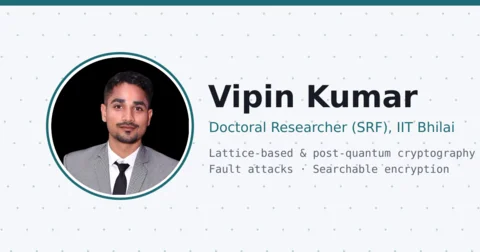
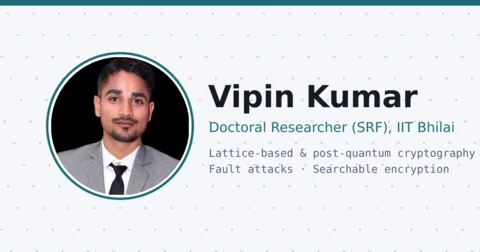
Deploying to gh-pages from @ vpncvam/vpncvam.github.io@b3d967affb0501a2976ce09235485646a948b844 🚀

diff --git a/index.html b/index.html
@@ -21,20 +21,20 @@
   }
 </style> <link rel="stylesheet" href="/assets/css/tailwind.css?v=50c64c15cbb9fd1ce6056fdb8bcb4b62"> <link defer rel="stylesheet" href="https://cdn.jsdelivr.net/npm/@fortawesome/fontawesome-free@7.2.0/css/all.min.css" integrity="sha256-MVopmdyC2tYTiJ8wlktf0uh0v4NgT+vNdyVFepi7Q0c=" crossorigin="anonymous"> <link defer rel="stylesheet" href="https://cdn.jsdelivr.net/npm/academicons@1.9.5/css/academicons.min.css" integrity="sha256-SzrCOBJbGVFMahewkgjwnApaV2+av1DwMAA+/QGLyZw=" crossorigin="anonymous"> <link defer rel="stylesheet" href="https://cdn.jsdelivr.net/npm/scholar-icons@1.0.3/css/scholar-icons.css" integrity="sha256-VY3hHVj/hNX3fYG6wtbA6TcKJQl7+FthzGSyIB64klY=" crossorigin="anonymous"> <link defer rel="stylesheet" type="text/css" href="https://fonts.googleapis.com/css?family=Roboto:300,400,500,700|Roboto+Slab:100,300,400,500,700|Material+Icons&amp;display=swap"> <link defer rel="stylesheet" href="/assets/css/jekyll-pygments-themes-github.css?v=591dab5a4e56573bf4ef7fd332894c99" media="" id="highlight_theme_light"> <link rel="shortcut icon" href="/assets/img/favicon.svg?v=43e9ee5e2d94ac5872cd87679f8a1920"> <link rel="apple-touch-icon" href="/assets/img/apple-touch-icon.png?v=e3a0c7738240fa59e361512c744bec3d"> <link rel="stylesheet" href="/assets/css/main.css?v=3116ba77db9ee1581d05bb3e86fbf7f1"> <link rel="canonical" href="https://vpncvam.github.io/"> <script src="/assets/js/theme.js?v=5286c3e4c334d0ecb8fc0c40ff4fa7ec"></script> <link defer rel="stylesheet" href="/assets/css/jekyll-pygments-themes-native.css?v=5847e5ed4a4568527aa6cfab446049ca" media="none" id="highlight_theme_dark"> <script>
     initTheme();
-  </script> <link rel="preconnect" href="https://fonts.googleapis.com"> <link rel="preconnect" href="https://fonts.gstatic.com" crossorigin> <link rel="stylesheet" href="https://fonts.googleapis.com/css2?family=Inter:wght@400;500;600&amp;family=Space+Grotesk:wght@500;600;700&amp;family=JetBrains+Mono:wght@400;500;600&amp;display=swap"> <link rel="stylesheet" href="/assets/css/home.css?v=178ef7fe4946c57d33566d6002bdeb01"> <script type="application/ld+json">
+  </script> <link rel="preconnect" href="https://fonts.googleapis.com"> <link rel="preconnect" href="https://fonts.gstatic.com" crossorigin> <link rel="stylesheet" href="https://fonts.googleapis.com/css2?family=Inter:wght@400;500;600&amp;family=Space+Grotesk:wght@500;600;700&amp;family=JetBrains+Mono:wght@400;500;600&amp;display=swap"> <link rel="stylesheet" href="/assets/css/home.css?v=dfdb8ac4aaa52ed42678d14889b8de76"> <script type="application/ld+json">
       {
         "@context": "https://schema.org",
         "@type": "Person",
         "name": "Vipin Kumar",
         "url": "https://vpncvam.github.io/",
-        "image": "https://vpncvam.github.io/assets/img/prof_pic.jpg",
+        "image": "https://vpncvam.github.io/assets/img/PS1.png",
         "jobTitle": "Doctoral Researcher (Senior Research Fellow) in Cryptography",
         "affiliation": { "@type": "CollegeOrUniversity", "name": "Indian Institute of Technology Bhilai", "url": "https://www.iitbhilai.ac.in" },
         "alumniOf": { "@type": "CollegeOrUniversity", "name": "Motilal Nehru National Institute of Technology Allahabad" },
         "knowsAbout": ["Cryptography","Lattice-based cryptography","Post-quantum cryptography","Fault-injection attacks","ML-KEM","Searchable symmetric encryption"],
         "sameAs": ["https://scholar.google.com/citations?user=GHsX49gAAAAJ","https://github.com/vpncvam","https://www.linkedin.com/in/vpncvam"]
       }
-    </script> </head> <body class="vk-home"> <div class="vk-lattice-bg" aria-hidden="true"></div> <svg class="vk-basis" viewbox="0 0 150 120" aria-hidden="true"> <defs> <marker id="vk-arr" viewbox="0 0 10 10" refx="9" refy="5" markerwidth="6" markerheight="6" orient="auto"> <path d="M0 0L10 5L0 10z" fill="currentColor"></path> </marker> </defs> <path d="M20 100 L104 100 L132 30 L48 30 Z" fill="currentColor" fill-opacity=".08" stroke="currentColor" stroke-opacity=".35" stroke-dasharray="3 3"></path> <path d="M20 100 L102 100" stroke="currentColor" stroke-width="1.8" marker-end="url(#vk-arr)" fill="none"></path> <path d="M20 100 L47 32" stroke="currentColor" stroke-width="1.8" marker-end="url(#vk-arr)" fill="none"></path> <circle cx="20" cy="100" r="3" fill="currentColor"></circle> <text x="62" y="116">b₁</text><text x="16" y="62">b₂</text> <text x="70" y="70" font-size="10">𝓛(B)</text> </svg> <nav class="vk-nav" aria-label="Main"> <div class="vk-nav-inner"> <a class="vk-brand" href="#about">Vipin <span>Kumar</span></a> <div class="vk-nav-links"> <a href="#about">About</a> <a href="#publications">Publications</a> <a href="#patents">Patents</a> <a href="#projects">Projects</a> <a href="#teaching">Teaching</a> <a href="#awards">Awards</a> </div> <button id="light-toggle" class="vk-theme-btn" type="button" title="Change theme" aria-label="Change color theme (system, light, dark)"> <svg class="vk-ico-system" viewbox="0 0 24 24" fill="none" stroke="currentColor" stroke-width="2" aria-hidden="true"> <circle cx="12" cy="12" r="8"></circle><path d="M12 4a8 8 0 0 1 0 16z" fill="currentColor"></path> </svg> <svg class="vk-ico-light" viewbox="0 0 24 24" fill="none" stroke="currentColor" stroke-width="2" stroke-linecap="round" aria-hidden="true"> <circle cx="12" cy="12" r="4"></circle> <path d="M12 2v2M12 20v2M4.9 4.9l1.4 1.4M17.7 17.7l1.4 1.4M2 12h2M20 12h2M4.9 19.1l1.4-1.4M17.7 6.3l1.4-1.4"></path> </svg> <svg class="vk-ico-dark" viewbox="0 0 24 24" fill="currentColor" aria-hidden="true"> <path d="M20 14.5A8 8 0 0 1 9.5 4a8 8 0 1 0 10.5 10.5z"></path> </svg> Theme </button> </div> </nav> <div class="vk-wrap"> <div class="vk-container"> <section class="vk-hero vk-section" id="about" aria-label="Introduction"> <canvas id="vk-lattice" aria-hidden="true"></canvas> <div class="vk-hero-inner"> <div class="vk-side"> <div class="vk-portrait"> <img src="/assets/img/prof_pic.jpg?v=192022302f12a29330991422817921d7" alt="Portrait of Vipin Kumar" width="240" height="240" loading="eager"> </div> <div class="vk-icon-links"> <a class="vk-icon-btn" href="https://scholar.google.com/citations?user=GHsX49gAAAAJ&amp;hl=en" target="_blank" rel="noopener" aria-label="Google Scholar" data-tip="Google Scholar"> <svg viewbox="0 0 24 24" fill="currentColor" aria-hidden="true"> <path d="M12 3 1 9l11 6 9-4.9V17h2V9z"></path><circle cx="12" cy="17" r="4"></circle> </svg> </a><a class="vk-icon-btn" href="https://github.com/vpncvam" target="_blank" rel="noopener" aria-label="GitHub" data-tip="GitHub"> <svg viewbox="0 0 24 24" fill="currentColor" aria-hidden="true"> <path d="M12 2a10 10 0 0 0-3.2 19.5c.5.1.7-.2.7-.5v-1.7c-2.8.6-3.4-1.3-3.4-1.3-.4-1.1-1.1-1.4-1.1-1.4-.9-.6.1-.6.1-.6 1 .1 1.5 1 1.5 1 .9 1.5 2.3 1.1 2.9.8.1-.6.3-1.1.6-1.3-2.2-.3-4.6-1.1-4.6-5 0-1.1.4-2 1-2.7-.1-.3-.4-1.3.1-2.7 0 0 .8-.3 2.8 1a9.6 9.6 0 0 1 5 0c1.9-1.3 2.8-1 2.8-1 .5 1.4.2 2.4.1 2.7.6.7 1 1.6 1 2.7 0 3.9-2.4 4.7-4.6 5 .4.3.7.9.7 1.9V21c0 .3.2.6.7.5A10 10 0 0 0 12 2z"></path> </svg> </a><a class="vk-icon-btn" href="https://www.linkedin.com/in/vpncvam" target="_blank" rel="noopener" aria-label="LinkedIn" data-tip="LinkedIn"> <svg viewbox="0 0 24 24" fill="currentColor" aria-hidden="true"> <path d="M4 3a2 2 0 1 1 0 4 2 2 0 0 1 0-4zM2 9h4v12H2zM9 9h3.8v1.7h.1c.5-1 1.8-2 3.8-2 4 0 4.8 2.6 4.8 6.1V21h-4v-5.5c0-1.3 0-3-1.8-3s-2.1 1.4-2.1 2.9V21H9z"></path> </svg> </a> </div> </div> <div> <h1> Vipin Kumar </h1> <p class="vk-role"><strong>Doctoral Researcher (SRF)</strong>, Dept. of CSE, IIT Bhilai<br>de.ci.phe.red Lab · advised by <a href="https://dhimans.in" target="_blank" rel="noopener">Dr. Dhiman Saha</a></p> <p class="vk-tagline"> <span id="vk-typed" data-phrases='["Lattice-based cryptography","Post-quantum security","Searchable encryption","Fault attacks on PQC hardware"]'>Lattice-based cryptography</span><span class="vk-caret" aria-hidden="true"></span> </p> <ul class="vk-chips" aria-label="Research interests"> <li class="vk-chip">Lattice-based cryptography</li> <li class="vk-chip">Post-quantum</li> <li class="vk-chip">Searchable encryption</li> <li class="vk-chip">5G security</li> <li class="vk-chip">Fault attacks</li> </ul> </div> </div> <div class="vk-hero-hint">move the cursor: Babai rounding to the nearest lattice point</div> </section> <main class="vk-main"> <div class="vk-col"> <section class="vk-section" aria-labelledby="vk-h-bio"> <h2 id="vk-h-bio">About</h2> <div class="vk-prose"> <p>I am a PhD scholar in the Department of Computer Science and Engineering at <a href="https://www.iitbhilai.ac.in" rel="external nofollow noopener" target="_blank">IIT Bhilai</a>, where I work on the application of lattices in cryptology. My research is being carried out under the guidance of my incredible supervisor, <a href="https://dhimans.in" rel="external nofollow noopener" target="_blank">Dr. Dhiman Saha</a>, Associate Professor in the department. Presently, my work focuses on fault-injection attacks on lattice-based cryptographic primitives. I am also working on searchable symmetric encryption schemes that support range queries. I come from a mathematics background, having completed my M.Sc. in Mathematics and Scientific Computing at MNNIT Allahabad in 2018.</p> </div> </section> <section class="vk-section vk-pubs" id="publications" aria-labelledby="vk-h-pubs"> <h2 id="vk-h-pubs">Publications</h2> <ol class="bibliography"> <li> <div class="vk-pub"> <div class="vk-venue">EPRINT<br>2026</div> <div> <p class="vk-pub-title">Keyber: Recovering the Signal by Amplifying the Noise in ML-KEM</p> <p class="vk-pub-authors"><b>Vipin Kumar</b>, Prathamesh Ram, Suparna Kundu, Dhiman Saha</p> <p class="vk-pub-meta">Cryptology ePrint Archive, Paper 2026/2766 · Preprint</p> <div class="vk-badges"> <a class="vk-badge" href="https://eprint.iacr.org/2026/2766" target="_blank" rel="noopener">ePrint</a><a class="vk-badge" href="https://eprint.iacr.org/2026/2766.pdf" target="_blank" rel="noopener">PDF</a><button class="vk-badge" type="button" data-vk-bib="vk-bib-cryptoeprint-2026-2766" aria-expanded="false" aria-controls="vk-bib-cryptoeprint-2026-2766">BibTeX</button> </div> <pre class="vk-bib" id="vk-bib-cryptoeprint-2026-2766">@misc{cryptoeprint:2026/2766,
+    </script> </head> <body class="vk-home"> <div class="vk-lattice-bg" aria-hidden="true"></div> <svg class="vk-basis" viewbox="0 0 150 120" aria-hidden="true"> <defs> <marker id="vk-arr" viewbox="0 0 10 10" refx="9" refy="5" markerwidth="6" markerheight="6" orient="auto"> <path d="M0 0L10 5L0 10z" fill="currentColor"></path> </marker> </defs> <path d="M20 100 L104 100 L132 30 L48 30 Z" fill="currentColor" fill-opacity=".08" stroke="currentColor" stroke-opacity=".35" stroke-dasharray="3 3"></path> <path d="M20 100 L102 100" stroke="currentColor" stroke-width="1.8" marker-end="url(#vk-arr)" fill="none"></path> <path d="M20 100 L47 32" stroke="currentColor" stroke-width="1.8" marker-end="url(#vk-arr)" fill="none"></path> <circle cx="20" cy="100" r="3" fill="currentColor"></circle> <text x="62" y="116">b₁</text><text x="16" y="62">b₂</text> <text x="70" y="70" font-size="10">𝓛(B)</text> </svg> <nav class="vk-nav" aria-label="Main"> <div class="vk-nav-inner"> <a class="vk-brand" href="#about">Vipin <span>Kumar</span></a> <div class="vk-nav-links"> <a href="#about">About</a> <a href="#publications">Publications</a> <a href="#patents">Patents</a> <a href="#projects">Projects</a> <a href="#teaching">Teaching</a> <a href="#awards">Awards</a> </div> <button id="light-toggle" class="vk-theme-btn" type="button" title="Change theme" aria-label="Change color theme (system, light, dark)"> <svg class="vk-ico-system" viewbox="0 0 24 24" fill="none" stroke="currentColor" stroke-width="2" aria-hidden="true"> <circle cx="12" cy="12" r="8"></circle><path d="M12 4a8 8 0 0 1 0 16z" fill="currentColor"></path> </svg> <svg class="vk-ico-light" viewbox="0 0 24 24" fill="none" stroke="currentColor" stroke-width="2" stroke-linecap="round" aria-hidden="true"> <circle cx="12" cy="12" r="4"></circle> <path d="M12 2v2M12 20v2M4.9 4.9l1.4 1.4M17.7 17.7l1.4 1.4M2 12h2M20 12h2M4.9 19.1l1.4-1.4M17.7 6.3l1.4-1.4"></path> </svg> <svg class="vk-ico-dark" viewbox="0 0 24 24" fill="currentColor" aria-hidden="true"> <path d="M20 14.5A8 8 0 0 1 9.5 4a8 8 0 1 0 10.5 10.5z"></path> </svg> Theme </button> </div> </nav> <div class="vk-wrap"> <div class="vk-container"> <section class="vk-hero vk-section" id="about" aria-label="Introduction"> <canvas id="vk-lattice" aria-hidden="true"></canvas> <div class="vk-hero-inner"> <div class="vk-side"> <div class="vk-portrait"> <img src="/assets/img/PS1.png?v=3c16f9b8e84f4b390e7c1cd8f8d2b89d" alt="Portrait of Vipin Kumar" width="240" height="240" loading="eager"> </div> <div class="vk-icon-links"> <a class="vk-icon-btn" href="https://scholar.google.com/citations?user=GHsX49gAAAAJ&amp;hl=en" target="_blank" rel="noopener" aria-label="Google Scholar" data-tip="Google Scholar"> <svg viewbox="0 0 24 24" fill="currentColor" aria-hidden="true"> <path d="M12 3 1 9l11 6 9-4.9V17h2V9z"></path><circle cx="12" cy="17" r="4"></circle> </svg> </a><a class="vk-icon-btn" href="https://github.com/vpncvam" target="_blank" rel="noopener" aria-label="GitHub" data-tip="GitHub"> <svg viewbox="0 0 24 24" fill="currentColor" aria-hidden="true"> <path d="M12 2a10 10 0 0 0-3.2 19.5c.5.1.7-.2.7-.5v-1.7c-2.8.6-3.4-1.3-3.4-1.3-.4-1.1-1.1-1.4-1.1-1.4-.9-.6.1-.6.1-.6 1 .1 1.5 1 1.5 1 .9 1.5 2.3 1.1 2.9.8.1-.6.3-1.1.6-1.3-2.2-.3-4.6-1.1-4.6-5 0-1.1.4-2 1-2.7-.1-.3-.4-1.3.1-2.7 0 0 .8-.3 2.8 1a9.6 9.6 0 0 1 5 0c1.9-1.3 2.8-1 2.8-1 .5 1.4.2 2.4.1 2.7.6.7 1 1.6 1 2.7 0 3.9-2.4 4.7-4.6 5 .4.3.7.9.7 1.9V21c0 .3.2.6.7.5A10 10 0 0 0 12 2z"></path> </svg> </a><a class="vk-icon-btn" href="https://www.linkedin.com/in/vpncvam" target="_blank" rel="noopener" aria-label="LinkedIn" data-tip="LinkedIn"> <svg viewbox="0 0 24 24" fill="currentColor" aria-hidden="true"> <path d="M4 3a2 2 0 1 1 0 4 2 2 0 0 1 0-4zM2 9h4v12H2zM9 9h3.8v1.7h.1c.5-1 1.8-2 3.8-2 4 0 4.8 2.6 4.8 6.1V21h-4v-5.5c0-1.3 0-3-1.8-3s-2.1 1.4-2.1 2.9V21H9z"></path> </svg> </a> </div> </div> <div> <h1> Vipin Kumar </h1> <p class="vk-role"><strong>Doctoral Researcher (SRF)</strong>, Dept. of CSE, IIT Bhilai<br>de.ci.phe.red Lab · advised by <a href="https://dhimans.in" target="_blank" rel="noopener">Dr. Dhiman Saha</a></p> <p class="vk-tagline"> <span id="vk-typed" data-phrases='["Lattice-based cryptography","Post-quantum security","Searchable encryption","Fault attacks on PQC hardware"]'>Lattice-based cryptography</span><span class="vk-caret" aria-hidden="true"></span> </p> <ul class="vk-chips" aria-label="Research interests"> <li class="vk-chip">Lattice-based cryptography</li> <li class="vk-chip">Post-quantum</li> <li class="vk-chip">Searchable encryption</li> <li class="vk-chip">5G security</li> <li class="vk-chip">Fault attacks</li> </ul> </div> </div> <div class="vk-hero-hint">move the cursor: Babai rounding to the nearest lattice point</div> </section> <main class="vk-main"> <div class="vk-col"> <section class="vk-section" aria-labelledby="vk-h-bio"> <h2 id="vk-h-bio">About</h2> <div class="vk-prose"> <p>I am a PhD scholar in the Department of Computer Science and Engineering at <a href="https://www.iitbhilai.ac.in" rel="external nofollow noopener" target="_blank">IIT Bhilai</a>, where I work on the application of lattices in cryptology. My research is being carried out under the guidance of my incredible supervisor, <a href="https://dhimans.in" rel="external nofollow noopener" target="_blank">Dr. Dhiman Saha</a>, Associate Professor in the department. Presently, my work focuses on fault-injection attacks on lattice-based cryptographic primitives. I am also working on searchable symmetric encryption schemes that support range queries. I come from a mathematics background, having completed my M.Sc. in Mathematics and Scientific Computing at MNNIT Allahabad in 2018.</p> </div> </section> <section class="vk-section vk-pubs" id="publications" aria-labelledby="vk-h-pubs"> <h2 id="vk-h-pubs">Publications</h2> <ol class="bibliography"> <li> <div class="vk-pub"> <div class="vk-venue">EPRINT<br>2026</div> <div> <p class="vk-pub-title">Keyber: Recovering the Signal by Amplifying the Noise in ML-KEM</p> <p class="vk-pub-authors"><b>Vipin Kumar</b>, Prathamesh Ram, Suparna Kundu, Dhiman Saha</p> <p class="vk-pub-meta">Cryptology ePrint Archive, Paper 2026/2766 · Preprint</p> <div class="vk-badges"> <a class="vk-badge" href="https://eprint.iacr.org/2026/2766" target="_blank" rel="noopener">ePrint</a><a class="vk-badge" href="https://eprint.iacr.org/2026/2766.pdf" target="_blank" rel="noopener">PDF</a><button class="vk-badge" type="button" data-vk-bib="vk-bib-cryptoeprint-2026-2766" aria-expanded="false" aria-controls="vk-bib-cryptoeprint-2026-2766">BibTeX</button> </div> <pre class="vk-bib" id="vk-bib-cryptoeprint-2026-2766">@misc{cryptoeprint:2026/2766,
   author = {Kumar, Vipin and Ram, Prathamesh and Kundu, Suparna and Saha, Dhiman},
   title = {Keyber: Recovering the Signal by Amplifying the Noise in {ML}-{KEM}},
   howpublished = {Cryptology {ePrint} Archive, Paper 2026/2766},

diff --git a/404.html b/404.html
@@ -21,7 +21,7 @@
   }
 </style> <link rel="stylesheet" href="/assets/css/tailwind.css?v=50c64c15cbb9fd1ce6056fdb8bcb4b62"> <link defer rel="stylesheet" href="https://cdn.jsdelivr.net/npm/@fortawesome/fontawesome-free@7.2.0/css/all.min.css" integrity="sha256-MVopmdyC2tYTiJ8wlktf0uh0v4NgT+vNdyVFepi7Q0c=" crossorigin="anonymous"> <link defer rel="stylesheet" href="https://cdn.jsdelivr.net/npm/academicons@1.9.5/css/academicons.min.css" integrity="sha256-SzrCOBJbGVFMahewkgjwnApaV2+av1DwMAA+/QGLyZw=" crossorigin="anonymous"> <link defer rel="stylesheet" href="https://cdn.jsdelivr.net/npm/scholar-icons@1.0.3/css/scholar-icons.css" integrity="sha256-VY3hHVj/hNX3fYG6wtbA6TcKJQl7+FthzGSyIB64klY=" crossorigin="anonymous"> <link defer rel="stylesheet" type="text/css" href="https://fonts.googleapis.com/css?family=Roboto:300,400,500,700|Roboto+Slab:100,300,400,500,700|Material+Icons&amp;display=swap"> <link defer rel="stylesheet" href="/assets/css/jekyll-pygments-themes-github.css?v=591dab5a4e56573bf4ef7fd332894c99" media="" id="highlight_theme_light"> <link rel="shortcut icon" href="/assets/img/favicon.svg?v=43e9ee5e2d94ac5872cd87679f8a1920"> <link rel="apple-touch-icon" href="/assets/img/apple-touch-icon.png?v=e3a0c7738240fa59e361512c744bec3d"> <link rel="stylesheet" href="/assets/css/main.css?v=3116ba77db9ee1581d05bb3e86fbf7f1"> <link rel="canonical" href="https://vpncvam.github.io/404.html"> <script src="/assets/js/theme.js?v=5286c3e4c334d0ecb8fc0c40ff4fa7ec"></script> <link defer rel="stylesheet" href="/assets/css/jekyll-pygments-themes-native.css?v=5847e5ed4a4568527aa6cfab446049ca" media="none" id="highlight_theme_dark"> <script>
     initTheme();
-  </script> <link rel="preconnect" href="https://fonts.googleapis.com"> <link rel="preconnect" href="https://fonts.gstatic.com" crossorigin> <link rel="stylesheet" href="https://fonts.googleapis.com/css2?family=Inter:wght@400;500;600&amp;family=Space+Grotesk:wght@500;600;700&amp;family=JetBrains+Mono:wght@400;500;600&amp;display=swap"> <link rel="stylesheet" href="/assets/css/home.css?v=178ef7fe4946c57d33566d6002bdeb01"> </head> <body class="vk-home"> <div class="vk-lattice-bg" aria-hidden="true"></div> <nav class="vk-nav" aria-label="Main"> <div class="vk-nav-inner"> <a class="vk-brand" href="/">Vipin <span>Kumar</span></a> <div class="vk-nav-links"> <a href="/">Home</a> </div> <button id="light-toggle" class="vk-theme-btn" type="button" title="Change theme" aria-label="Change color theme (system, light, dark)"> <svg class="vk-ico-system" viewbox="0 0 24 24" fill="none" stroke="currentColor" stroke-width="2" aria-hidden="true"> <circle cx="12" cy="12" r="8"></circle><path d="M12 4a8 8 0 0 1 0 16z" fill="currentColor"></path> </svg> <svg class="vk-ico-light" viewbox="0 0 24 24" fill="none" stroke="currentColor" stroke-width="2" stroke-linecap="round" aria-hidden="true"> <circle cx="12" cy="12" r="4"></circle> <path d="M12 2v2M12 20v2M4.9 4.9l1.4 1.4M17.7 17.7l1.4 1.4M2 12h2M20 12h2M4.9 19.1l1.4-1.4M17.7 6.3l1.4-1.4"></path> </svg> <svg class="vk-ico-dark" viewbox="0 0 24 24" fill="currentColor" aria-hidden="true"> <path d="M20 14.5A8 8 0 0 1 9.5 4a8 8 0 1 0 10.5 10.5z"></path> </svg> Theme </button> </div> </nav> <div class="vk-wrap"> <div class="vk-container"> <main class="vk-plain"> <p class="vk-plain-code">404 · no lattice point here</p> <h1>Page not found</h1> <div class="vk-prose"> <p>The page you were looking for does not exist. You will be taken to the <a href="/">home page</a> in a few seconds.</p> </div> </main> <footer class="vk-footer"> <p> © 2026 Vipin Kumar </p> </footer> </div> </div> <script>
+  </script> <link rel="preconnect" href="https://fonts.googleapis.com"> <link rel="preconnect" href="https://fonts.gstatic.com" crossorigin> <link rel="stylesheet" href="https://fonts.googleapis.com/css2?family=Inter:wght@400;500;600&amp;family=Space+Grotesk:wght@500;600;700&amp;family=JetBrains+Mono:wght@400;500;600&amp;display=swap"> <link rel="stylesheet" href="/assets/css/home.css?v=dfdb8ac4aaa52ed42678d14889b8de76"> </head> <body class="vk-home"> <div class="vk-lattice-bg" aria-hidden="true"></div> <nav class="vk-nav" aria-label="Main"> <div class="vk-nav-inner"> <a class="vk-brand" href="/">Vipin <span>Kumar</span></a> <div class="vk-nav-links"> <a href="/">Home</a> </div> <button id="light-toggle" class="vk-theme-btn" type="button" title="Change theme" aria-label="Change color theme (system, light, dark)"> <svg class="vk-ico-system" viewbox="0 0 24 24" fill="none" stroke="currentColor" stroke-width="2" aria-hidden="true"> <circle cx="12" cy="12" r="8"></circle><path d="M12 4a8 8 0 0 1 0 16z" fill="currentColor"></path> </svg> <svg class="vk-ico-light" viewbox="0 0 24 24" fill="none" stroke="currentColor" stroke-width="2" stroke-linecap="round" aria-hidden="true"> <circle cx="12" cy="12" r="4"></circle> <path d="M12 2v2M12 20v2M4.9 4.9l1.4 1.4M17.7 17.7l1.4 1.4M2 12h2M20 12h2M4.9 19.1l1.4-1.4M17.7 6.3l1.4-1.4"></path> </svg> <svg class="vk-ico-dark" viewbox="0 0 24 24" fill="currentColor" aria-hidden="true"> <path d="M20 14.5A8 8 0 0 1 9.5 4a8 8 0 1 0 10.5 10.5z"></path> </svg> Theme </button> </div> </nav> <div class="vk-wrap"> <div class="vk-container"> <main class="vk-plain"> <p class="vk-plain-code">404 · no lattice point here</p> <h1>Page not found</h1> <div class="vk-prose"> <p>The page you were looking for does not exist. You will be taken to the <a href="/">home page</a> in a few seconds.</p> </div> </main> <footer class="vk-footer"> <p> © 2026 Vipin Kumar </p> </footer> </div> </div> <script>
   window.alFolio = {
     compatBootstrap: false
   };

diff --git a/assets/css/home.css b/assets/css/home.css
@@ -259,20 +259,30 @@ html:not([data-theme-setting]) .vk-theme-btn .vk-ico-system {
   gap: 18px;
 }
 .vk-portrait {
+  /* --vk-photo-zoom < 1 zooms out: the photo (black background) is drawn smaller inside a black circle,
+     so more of it shows and the head gets some room at the top. The image file itself is never cropped. */
+  --vk-photo-zoom: 0.9;
   width: 240px;
   height: 240px;
   flex: none;
-}
-.vk-portrait img {
-  width: 100%;
-  height: 100%;
-  object-fit: cover;
+  position: relative;
+  overflow: hidden;
   border-radius: 50%;
-  display: block;
+  background: #000;
   border: 4px solid var(--vk-surface);
   box-shadow:
     0 0 0 2px var(--vk-accent),
     0 18px 40px -20px rgba(0, 0, 0, 0.45);
+}
+.vk-portrait img {
+  position: absolute;
+  left: 50%;
+  top: calc((1 - var(--vk-photo-zoom)) * 50%);
+  width: calc(100% * var(--vk-photo-zoom));
+  height: auto;
+  max-width: none;
+  transform: translateX(-50%);
+  display: block;
 }
 .vk-icon-links {
   display: flex;
